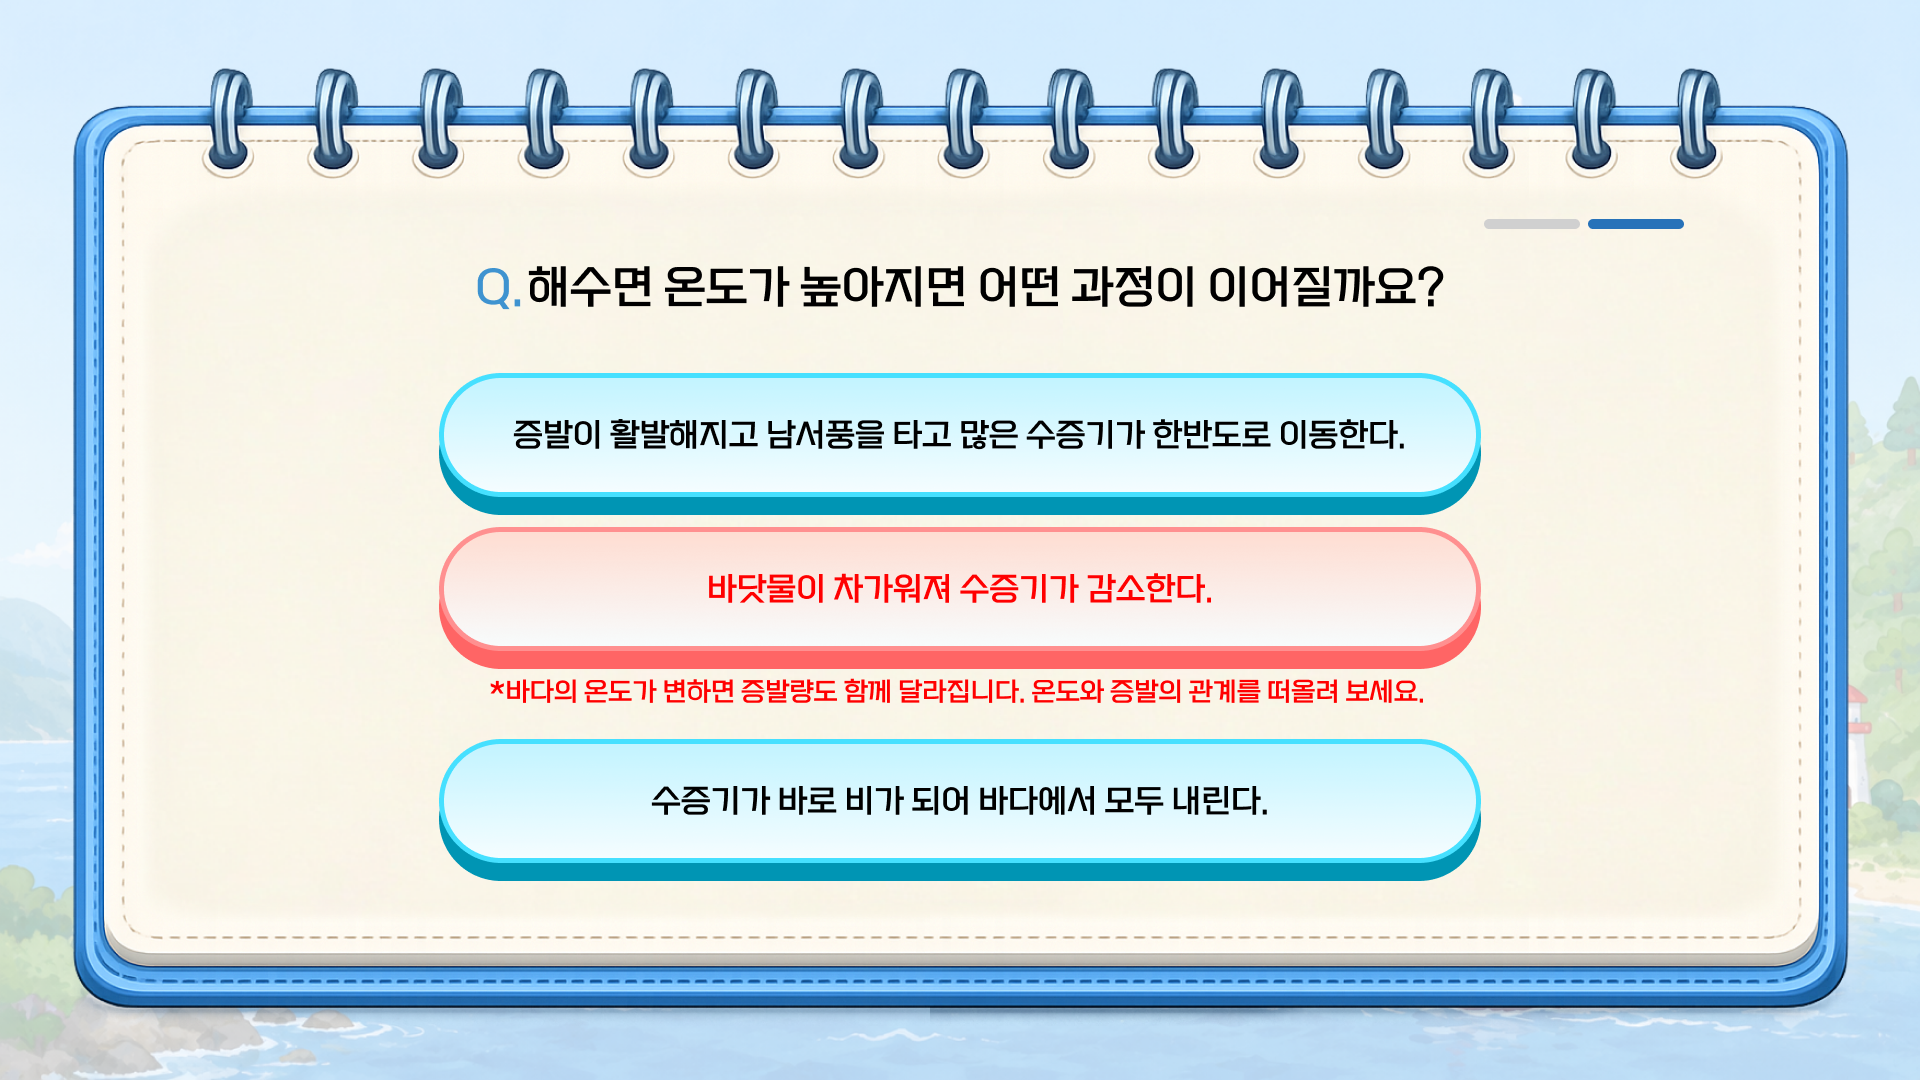
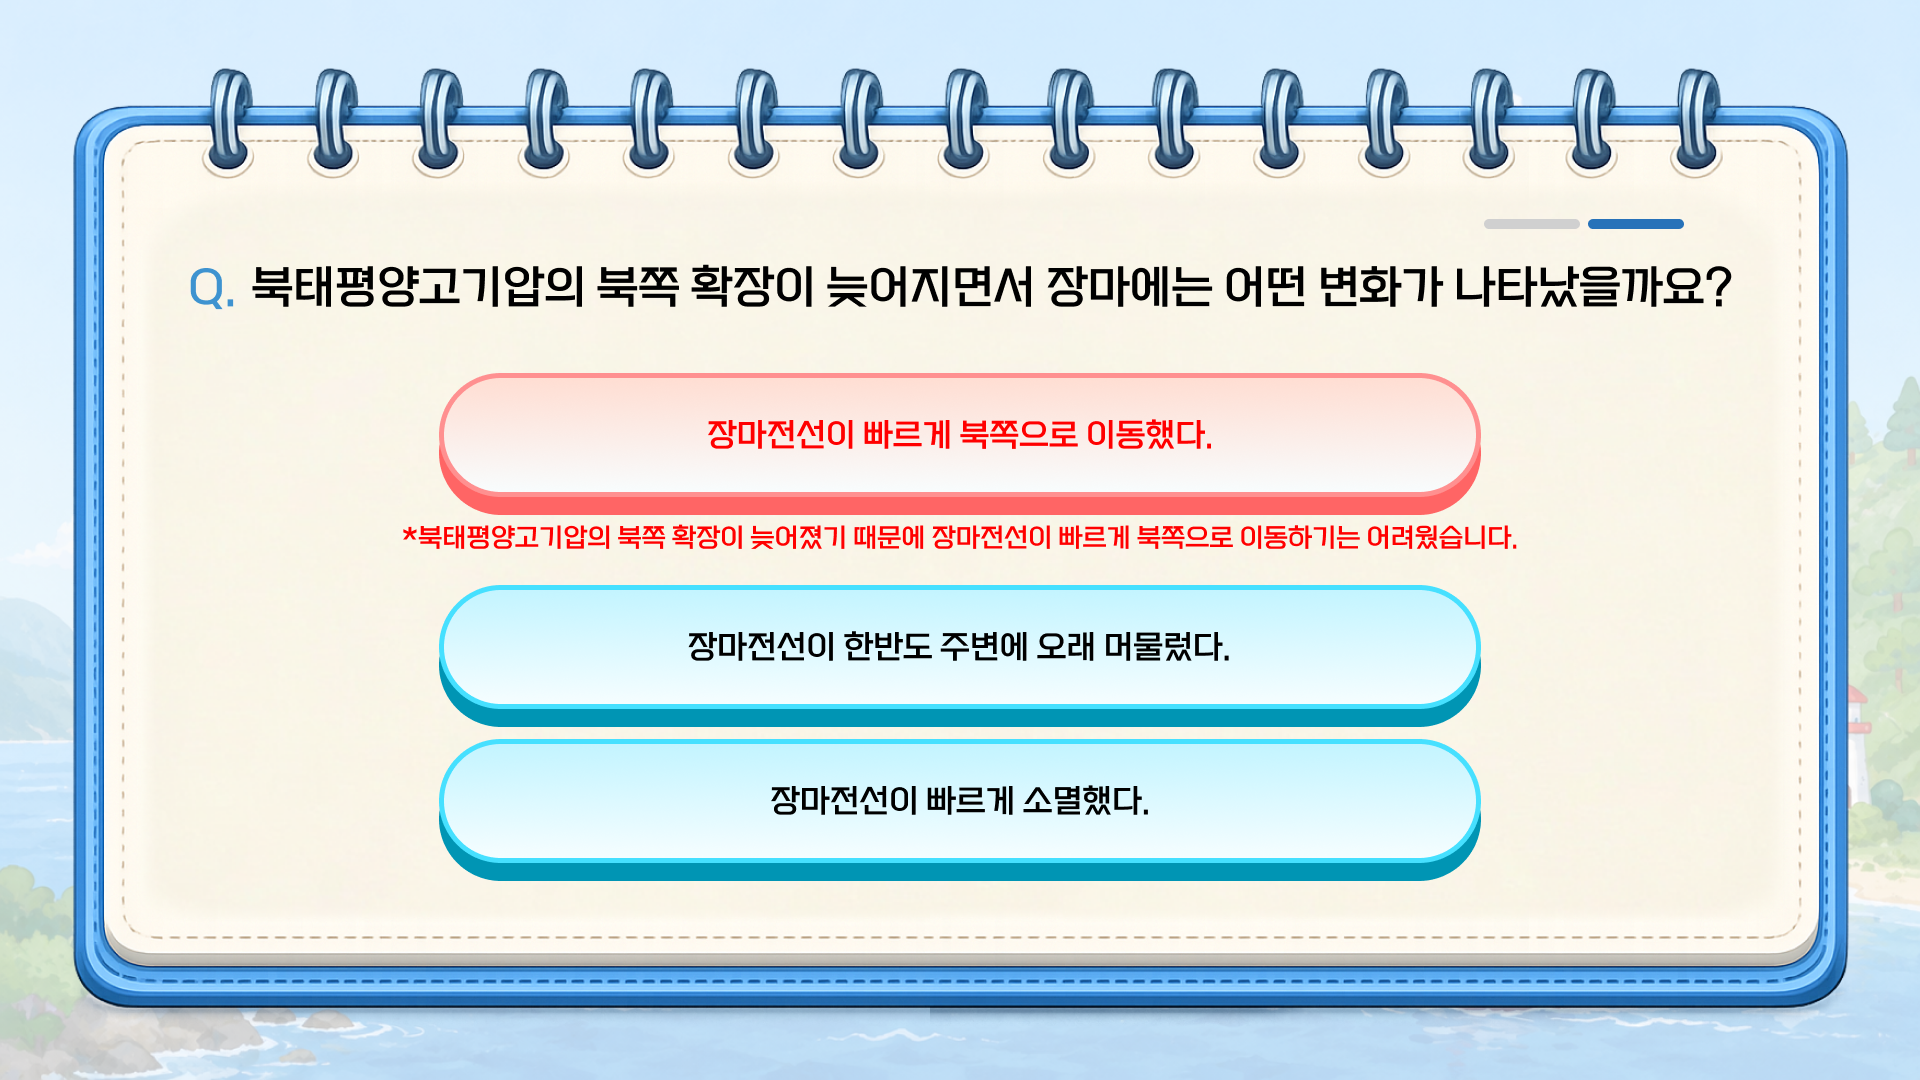
Replace 2020 ocean site with climate analysis center content

Changed region(s): [[0.2188, 0.3361, 0.7812, 0.6722], [0.0938, 0.2444, 0.9062, 0.3056], [0.3438, 0.7028, 0.6562, 0.7639]]

diff --git a/frontend/src/cases/2020.js b/frontend/src/cases/2020.js
@@ -19,8 +19,10 @@ import notebookSatellitePage from '../assets/2020/common/page8.png'
 
 import oceanStationBg from '../assets/2020/ocean/b1_p1.png'
 import oceanQuizBg from '../assets/2020/ocean/b1_p2.png'
-import oceanCorrectBg from '../assets/2020/ocean/b1_p3.png'
-import oceanWrongBg from '../assets/2020/ocean/b1_p4.png'
+import oceanQuiz1Tip from '../assets/2020/ocean/quiz1_tip.png'
+import oceanQuiz1Wrong1Bg from '../assets/2020/ocean/b1_p3.png'
+import oceanQuiz1CorrectBg from '../assets/2020/ocean/b1_p4.png'
+import oceanQuiz1Wrong2Bg from '../assets/2020/ocean/b1_p4_2.png'
 import oceanQuiz2Bg from '../assets/2020/ocean/b1_p5.png'
 import oceanCorrect2Bg from '../assets/2020/ocean/b1_p6.png'
 import oceanWrong2aBg from '../assets/2020/ocean/b1_p7.png'
@@ -29,6 +31,9 @@ import oceanHintBg from '../assets/2020/ocean/b1_p9.png'
 import oceanHintFront from '../assets/2020/ocean/b1_p9_hint1.png'
 import oceanHintBack from '../assets/2020/ocean/b1_p9_hint2.png'
 import oceanNotebookBg from '../assets/2020/ocean/b1_p10.png'
+// 이 사이트는 원래 해양관측소였다가 기후분석센터로 콘텐츠가 바뀜 — 목소리도 기후분석센터 것으로 교체.
+import oceanSiteVoice from '../assets/sounds/기후분석센터.mp3'
+import oceanSiteAmbient from '../assets/sounds/바람소리.wav'
 
 import weatherStationBg from '../assets/2020/weather/p1.png'
 import weatherQuizBg from '../assets/2020/weather/p2.png'
@@ -160,37 +165,43 @@ const case2020 = {
     ocean: {
       dialogue: {
         background: oceanStationBg,
-        speaker: '해양관측소',
+        speaker: '기후분석센터',
         bare: true,
         barBox: SITE_INTRO_BAR_BOX,
+        voiceSrc: oceanSiteVoice,
+        ambientSrc: oceanSiteAmbient,
         lines: [
-          '안녕하세요 {nickname} 조수님.',
-          '해양관측소는 바닷물의 흐름과 수온, 염분 등 우리바다에 대한 기초적인',
-          '조사를 수행하는 곳입니다. 저희가 드리는 단서를 갖고 추리해보세요!',
+          '안녕하세요 {nickname} 조수님',
+          '저희 기후분석센터(기상청)는 대한민국의 기상 및 기후에 대한 관측, 연구',
+          '및 예보를 실시하는 일을 합니다',
+          '저희가 드리는 단서를 갖고 추리해보세요!',
         ],
       },
       quiz: {
         background: oceanQuizBg,
+        tipImage: oceanQuiz1Tip,
         options: [
-          { label: '2020년 해수면 온도가 평년보다 높았다.', outcome: 'correct', box: { left: '44.84cqi', top: '22.03cqi', width: '43.44cqi', height: '6.46cqi' } },
-          { label: '2020년 해수면 온도가 평년보다 낮았다.', outcome: 'wrong', box: { left: '44.84cqi', top: '30.05cqi', width: '43.44cqi', height: '6.46cqi' } },
+          { label: '북태평양고기압이 우리나라 북쪽으로 빠르게 확장했다.', outcome: 'wrong1', box: { left: '45.73cqi', top: '20.99cqi', width: '51.82cqi', height: '7.29cqi' } },
+          { label: '북태평양고기압이 북쪽으로 확장하지 못하고 일본 남쪽에 머물렀다.', outcome: 'correct', box: { left: '45.73cqi', top: '29.43cqi', width: '51.82cqi', height: '7.29cqi' } },
+          { label: '북태평양고기압이 우리나라 주변에서 완전히 사라졌다.', outcome: 'wrong2', box: { left: '45.73cqi', top: '37.86cqi', width: '51.82cqi', height: '7.29cqi' } },
         ],
       },
-      correct: { background: oceanCorrectBg, nextBox: { left: '41.41cqi', top: '38.13cqi', width: '17.19cqi', height: '4.06cqi' } },
+      correct: { background: oceanQuiz1CorrectBg, nextBox: { left: '41.41cqi', top: '38.13cqi', width: '17.19cqi', height: '4.06cqi' } },
       quiz2: {
         background: oceanQuiz2Bg,
         options: [
-          { label: '증발이 활발해주고 남서풍을 타고 많은 수증기가 한반도로 이동한다.', outcome: 'correct', box: { left: '22.86cqi', top: '20.16cqi', width: '54.27cqi', height: '5.94cqi' } },
-          { label: '바닷물이 차가워져 수증기가 감소한다.', outcome: 'wrong2a', box: { left: '22.86cqi', top: '28.18cqi', width: '54.27cqi', height: '5.94cqi' } },
-          { label: '수증기가 바로 비가 되어 바다에서 모두 내린다.', outcome: 'wrong2b', box: { left: '22.86cqi', top: '36.20cqi', width: '54.27cqi', height: '5.94cqi' } },
+          { label: '장마전선이 빠르게 북쪽으로 이동했다.', outcome: 'wrong2a', box: { left: '22.86cqi', top: '20.16cqi', width: '54.27cqi', height: '5.94cqi' } },
+          { label: '장마전선이 한반도 주변에 오래 머물렀다.', outcome: 'correct', box: { left: '22.86cqi', top: '28.18cqi', width: '54.27cqi', height: '5.94cqi' } },
+          { label: '장마전선이 빠르게 소멸했다.', outcome: 'wrong2b', box: { left: '22.86cqi', top: '36.20cqi', width: '54.27cqi', height: '5.94cqi' } },
         ],
       },
       correct2: { background: oceanCorrect2Bg, hintBox: { left: '41.35cqi', top: '37.76cqi', width: '17.29cqi', height: '4.64cqi' } },
-      wrong: { background: oceanWrongBg, retryTarget: 'quiz', retryBox: { right: '5.5cqi', bottom: '5cqi' } },
+      wrong1: { background: oceanQuiz1Wrong1Bg, retryTarget: 'quiz', retryBox: { right: '5.5cqi', bottom: '5cqi' } },
+      wrong2: { background: oceanQuiz1Wrong2Bg, retryTarget: 'quiz', retryBox: { right: '5.5cqi', bottom: '5cqi' } },
       wrong2a: { background: oceanWrong2aBg, retryTarget: 'quiz2', retryBox: { right: '5.5cqi', bottom: '5cqi' } },
       wrong2b: { background: oceanWrong2bBg, retryTarget: 'quiz2', retryBox: { right: '5.5cqi', bottom: '5cqi' } },
-      hint: { background: oceanHintBg, frontImage: oceanHintFront, backImage: oceanHintBack, hotspotBox: { left: '30.72%', top: '72.79%', width: '33.77%', height: '8.89%' } },
-      notebook: { background: oceanNotebookBg, returnBox: { left: '82.33cqi', top: '1.03cqi', width: '14.71cqi', height: '6.58cqi' } },
+      hint: { background: oceanHintBg, frontImage: oceanHintFront, backImage: oceanHintBack, hotspotBox: { left: '32%', top: '78%', width: '38%', height: '10%' } },
+      notebook: { background: oceanNotebookBg, returnBox: { left: '86cqi', top: '0.8cqi', width: '15cqi', height: '5cqi' } },
     },
 
     weather: {

diff --git a/frontend/src/App.jsx b/frontend/src/App.jsx
@@ -92,8 +92,8 @@ function App() {
           lines={withNickname(site.dialogue.lines, nickname)}
           buttonLabel="추리하러 가기"
           onButtonClick={() => setScreen(`${prefix}Quiz`)}
-          voiceSrc={SITE_VOICE[siteKey]}
-          ambientSrc={SITE_AMBIENT[siteKey]}
+          voiceSrc={site.dialogue.voiceSrc || SITE_VOICE[siteKey]}
+          ambientSrc={site.dialogue.ambientSrc || SITE_AMBIENT[siteKey]}
           panel={!site.dialogue.bare}
           bare={site.dialogue.bare}
           barBox={site.dialogue.barBox}

diff --git a/backend/app/ai.py b/backend/app/ai.py
@@ -81,11 +81,11 @@ def generate_wrong_answer_explanation(
 
 BOARD_CHIP_TEXT = {
     "evi1": "비구름대 반복 형성",
-    "evi2": "수증기 증가",
+    "evi2": "북태평양고기압 북쪽 확장 지연",
     "evi3": "한반도로의 수증기 유입 증가",
 }
 BOARD_CARD_TEXT = {
-    "box1": "해수면 온도 상승",
+    "box1": "찬 공기 정체",
     "box2": "지속적인 남서풍",
     "box3": "장기간 장마",
 }
